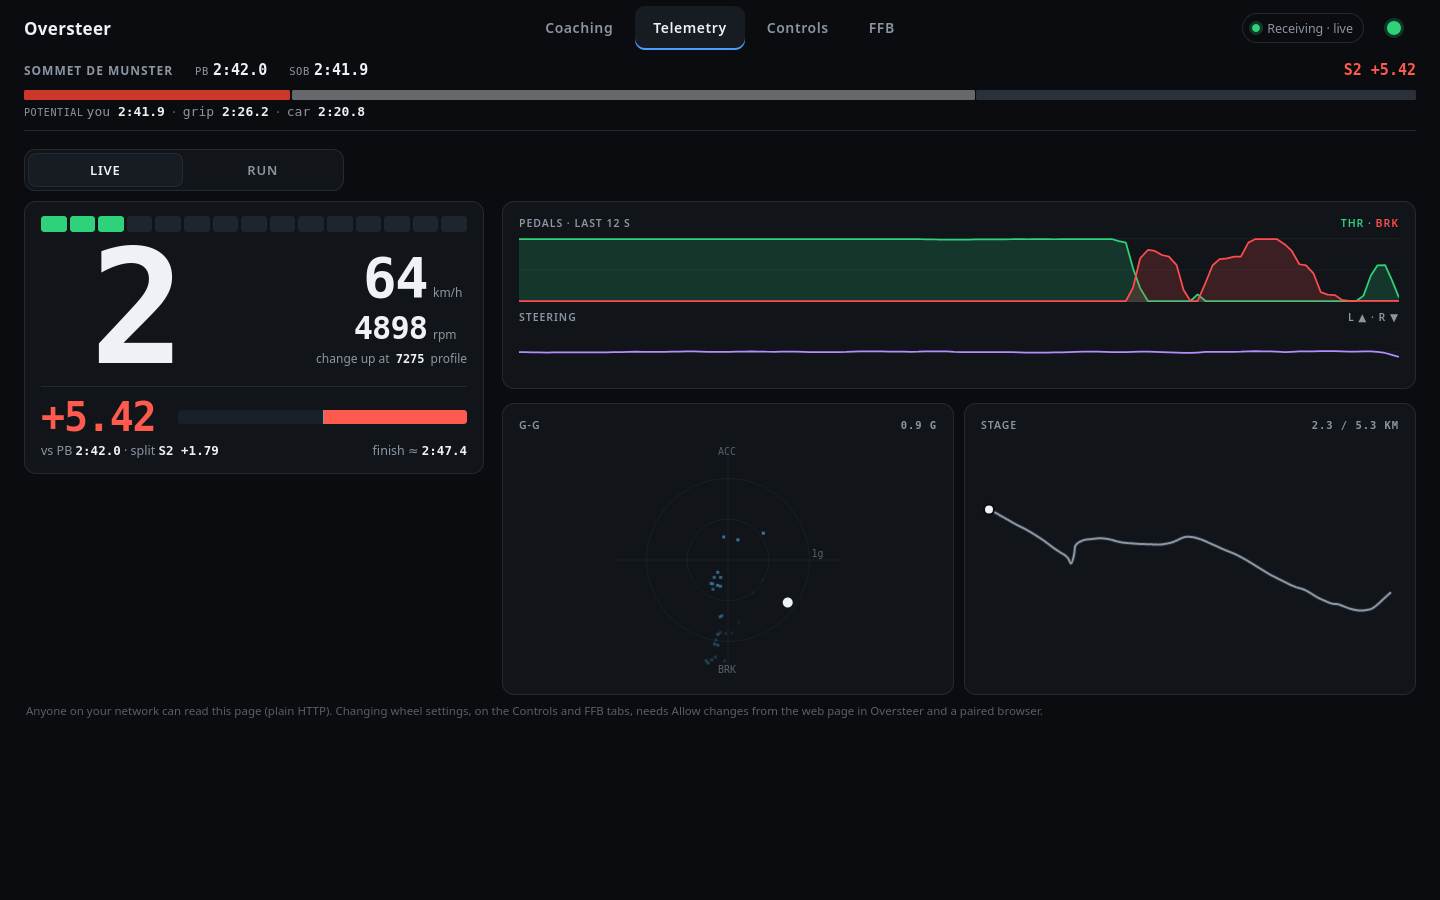
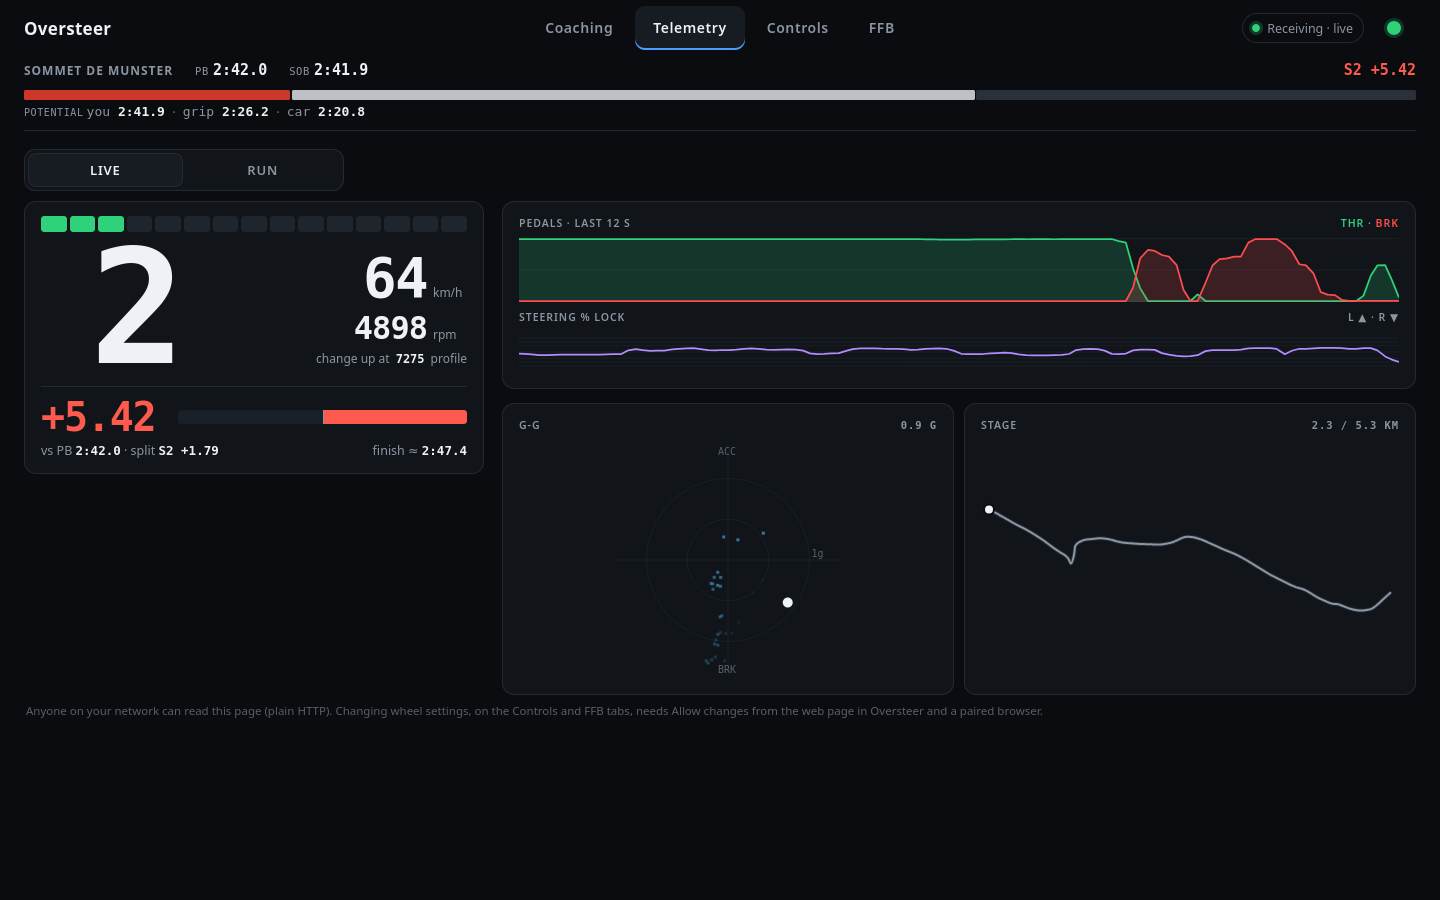
README images recaptured from the 0.16.0 code (% lock steering strip, gridlines, L/R placement; Run image back in); Richard Burns Rally (RSF) in the game list

Changed region(s): [[0.375, 0.3422, 0.9688, 0.4044], [0.1875, 0.0933, 0.6875, 0.1244]]

diff --git a/README.md b/README.md
@@ -147,7 +147,8 @@ Pedals are inverted at the driver by default so games read them the right way ro
 ### Other games (secondary)
 
 The telemetry side also reads Forza Horizon / Motorsport "Data Out", BeamNG and Live for Speed
-(OutGauge), the Codemasters layout (DiRT Rally 2.0, DiRT 4, WRC Generations) and EA SPORTS WRC.
+(OutGauge), the Codemasters layout (DiRT Rally 2.0, DiRT 4, WRC Generations), EA SPORTS WRC and
+Richard Burns Rally (RSF).
 Rev lights and shift learning work for all of them; coaching, stage tables and splits are built
 and checked on Assetto Corsa Rally first and WRC Generations second, and the rest are less
 exercised. Assetto Corsa and Assetto Corsa Competizione use the same `oversteer-run` bridge.
